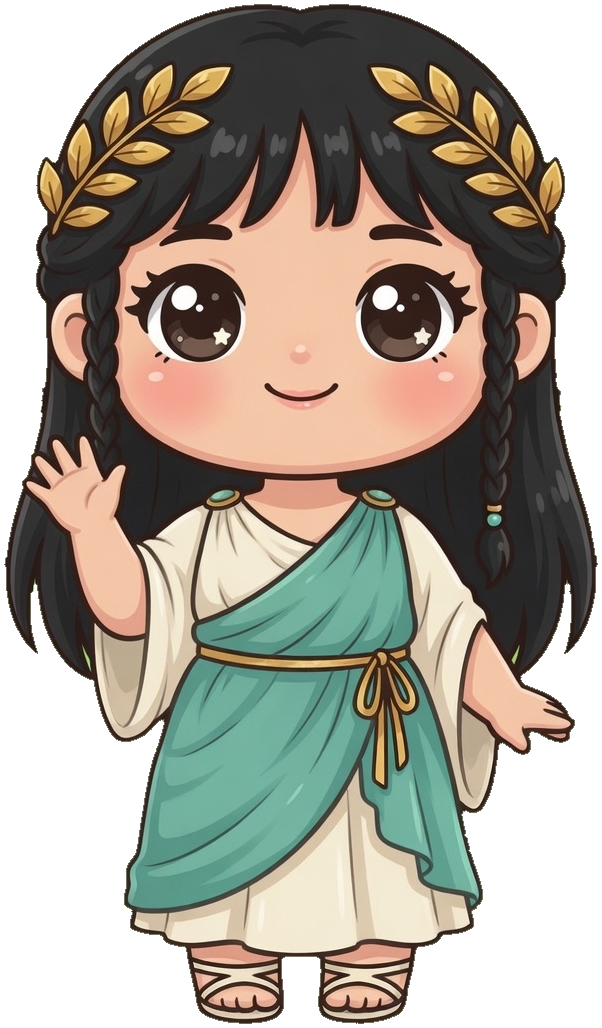
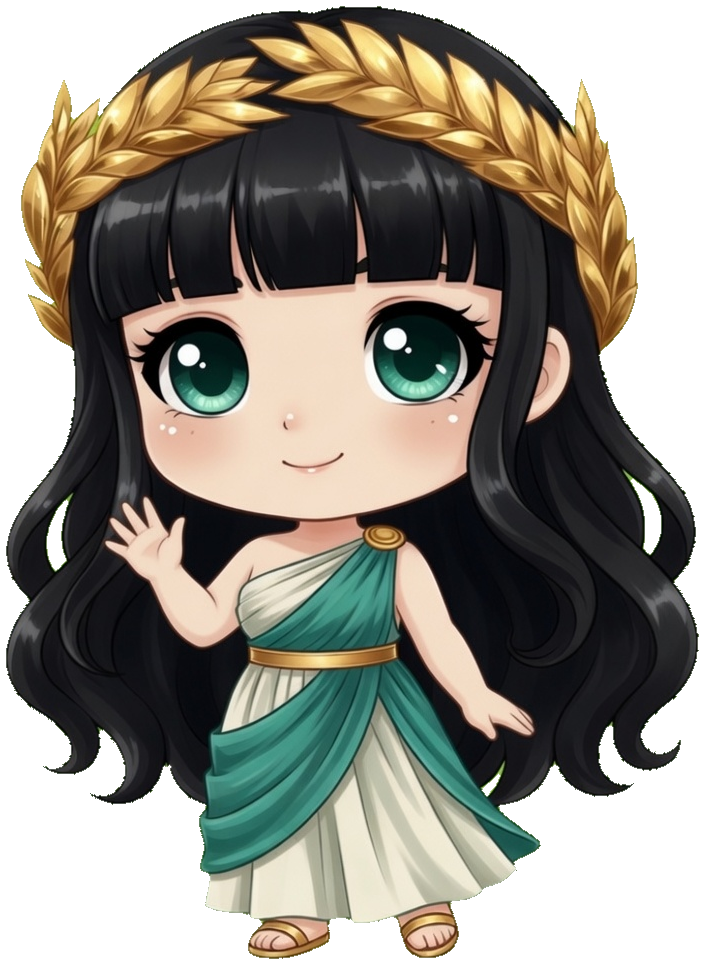
Redraw Muse in a pretty kawaii chibi goddess style.

diff --git a/css/app.css b/css/app.css
@@ -104,7 +104,7 @@ body > section { width: 100%; min-width: 0; }
   background: linear-gradient(180deg, var(--cyan-soft), var(--card));
 }
 .hero-copy .pet {
-  width: 140px;
+  width: 168px;
   height: 220px;
   object-fit: contain;
 }
